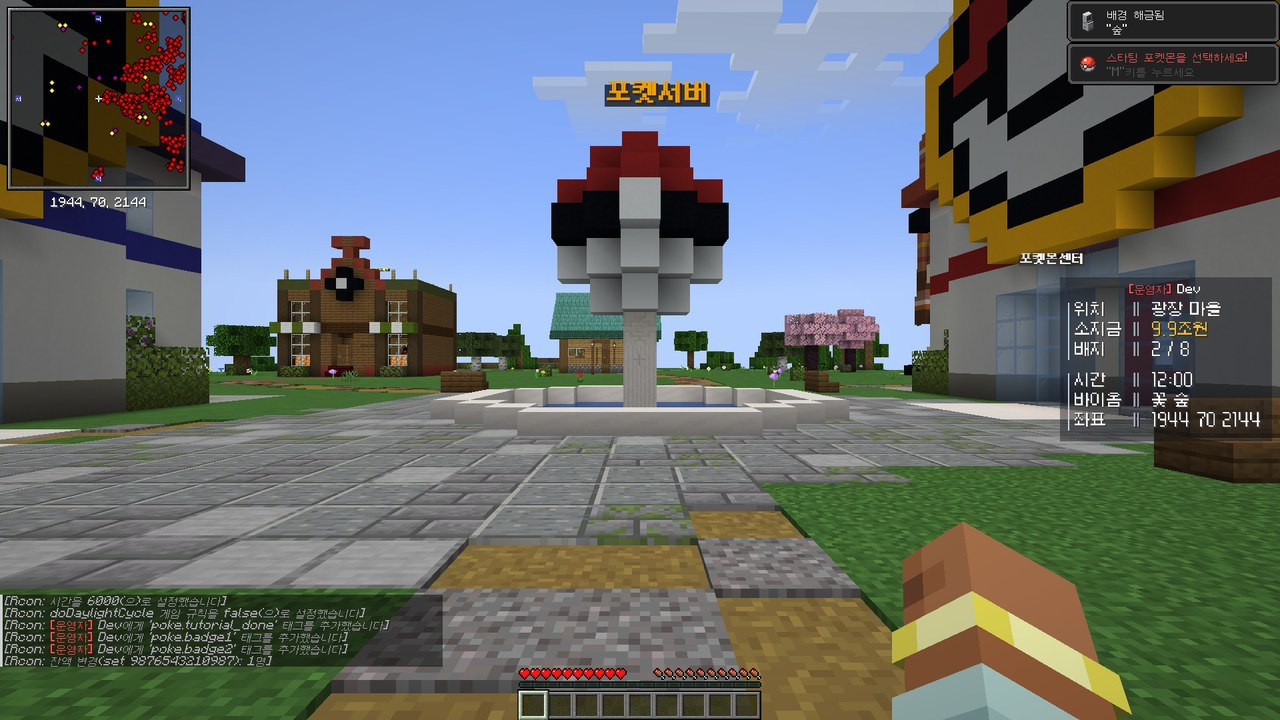
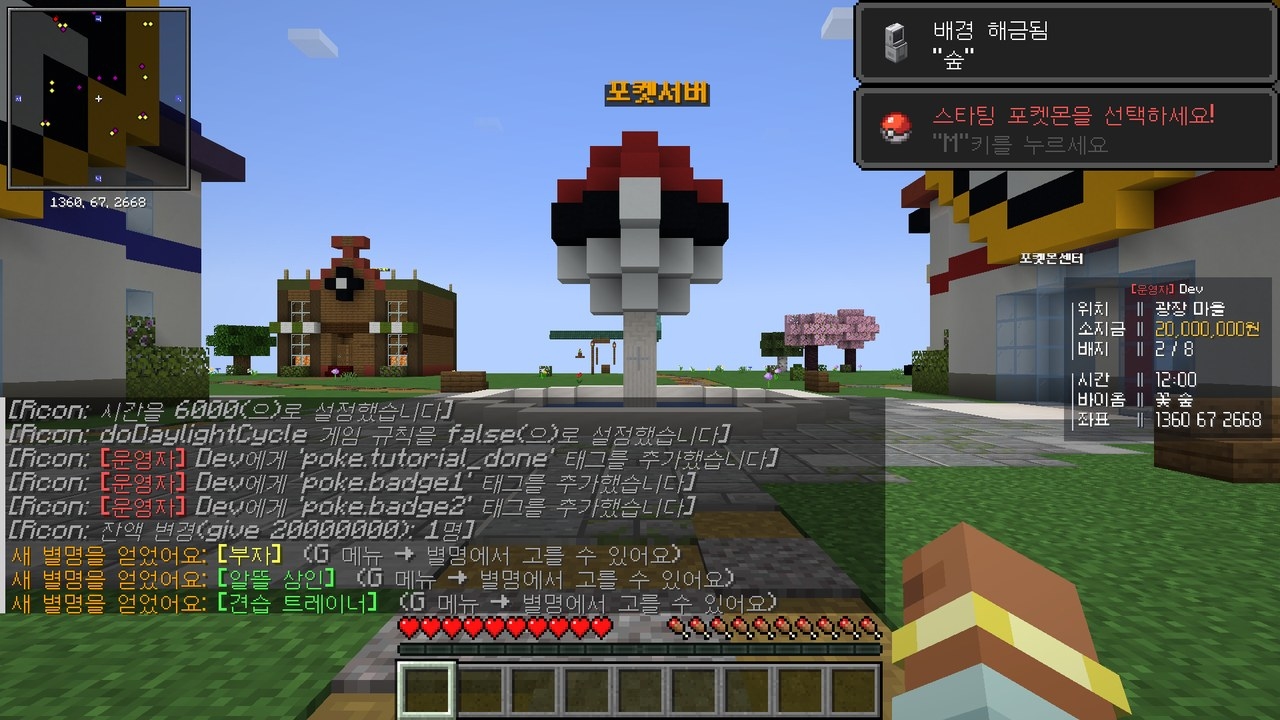
문서: 배틀 중 미니맵·정보창 숨김, 자동 GUI 크기 실제 화면 사진
Claude-Session: https://claude.ai/code/session_01KfYadX4RQW6s5szTxe11BK

diff --git a/docs/UI정리.md b/docs/UI정리.md
@@ -21,8 +21,8 @@
 ![정보창](ui/16_hud.jpg)
 - 참고 사진 크기(전체 화면에서 GUI 2배 크기)로 작게. 두 묶음, 줄 간격 넓게(같은 간격): **위치 · 소지금 · 배지** / **시간 · 바이옴 · 좌표**. 맨 위 [별명] 닉네임.
 - 위치: 광장 마을 / 야생 / 농장 / 체육관 / 오박사 연구소. 묶음마다 왼쪽 세로줄, "이름 ∥ 값".
-- 화면(메뉴·배틀)이 열리면 숨김 (배틀 정보창과 겹치지 않게).
-- 왼쪽 위 미니맵: Xaero's Minimap.
+- 화면(메뉴·배틀)이 열려 있거나 **배틀 중**(배틀 화면을 닫아 둔 동안도)이면 숨김.
+- 왼쪽 위 미니맵: Xaero's Minimap. **배틀 중엔 숨김** (내 포켓몬 체력 판과 겹쳐서, `MinimapMixin`).
 - 코드: `InfoHud.java`
 
 ### 명령어 버튼
@@ -56,12 +56,14 @@
 ### 배틀 (관장 우클릭)
 ![배틀](ui/15_battle.jpg)
 ![기술 고르기](ui/15b_battle_moves.jpg)
+![배틀 화면 닫아 둠](ui/15c_battle_min.jpg)
 - 참고 사진 분석: 납작한 어두운 반투명 판 + 얇은 테두리 + 둥근 모서리, 크기는 GUI 약 2.4배.
 - **크기**: 전체 화면(GUI 자동 4배)에서도 배틀 화면만 **2.5배 크기**로 줄여 그림 (체력 판 약 350px 폭, 참고 340px). 마우스 위치도 맞춤.
 - **체력 판**(왼쪽 위 내 포켓몬, 오른쪽 위 상대): 초상화 칸 + 이름·Lv + 체력 막대.
 - **행동 버튼**(싸운다 · 포켓몬 · 포기): 왼쪽 색 아이콘 칸(빨강·초록·흰색) + 이름.
 - **기술 버튼** 2×2: 왼쪽 타입 색 아이콘 칸 + 기술 이름, 아래 줄 분류·PP. 마우스를 올리면 테두리가 타입 색.
-- 배틀 기록(오른쪽 아래)·뒤로 버튼도 같은 디자인. Extended Battle UI: 기술 상성·속도 범위·BATTLE INFO.
+- 배틀 기록(오른쪽 아래)·뒤로 버튼도 같은 디자인. Extended Battle UI(BATTLE INFO 판·배틀 기록)도 같은 2.5배 크기로 줄여 서로 안 겹침.
+- 배틀 화면을 닫아 두면(ESC) 체력 판·BATTLE INFO만 보이고 미니맵·오른쪽 정보창은 숨김.
 - 코드: 텍스처 `tools/battle_skin.py` → 내장 리소스팩, 크기·글자 위치 `BattleScale.java`·`client/mixin/`
 
 ## 4. 오박사 튜토리얼
